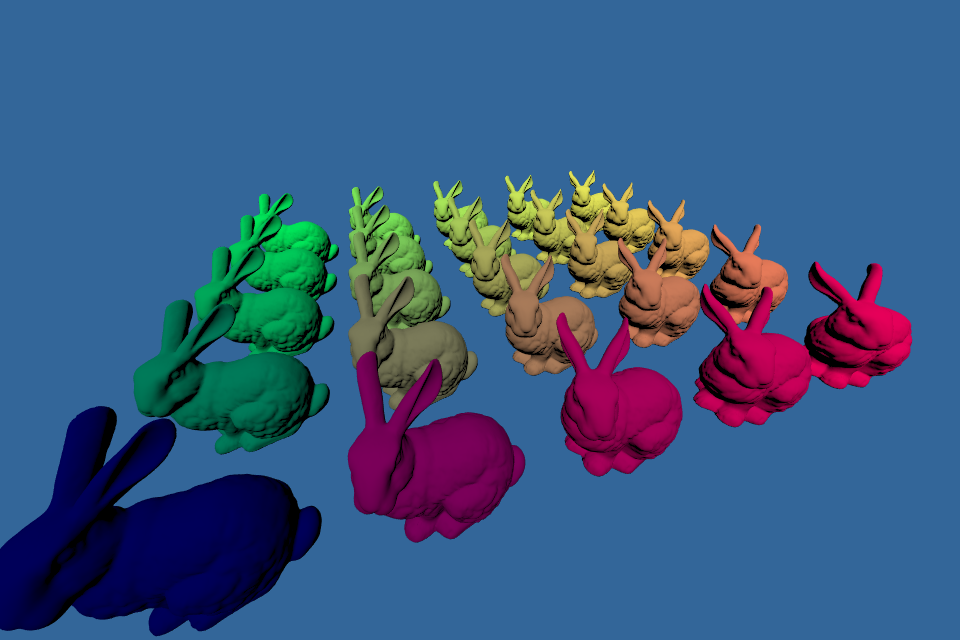
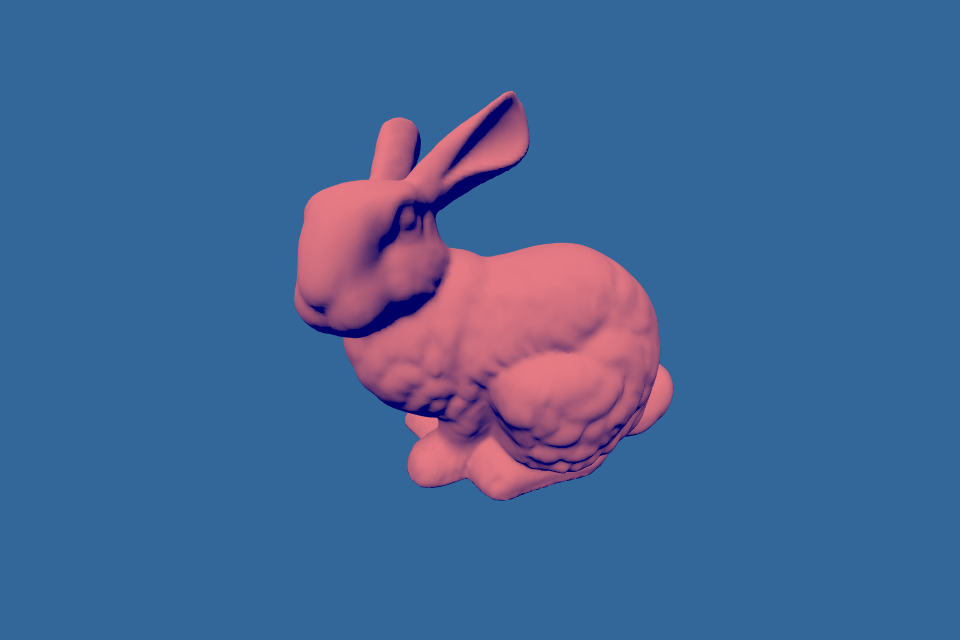
Added 16byte padding to CBuffer .h generation. Simplified BasicSample. Some memory leaking and in general memory management of materials needs to be fixed.

diff --git a/Clair/tools/MaterialTool/src/main.cpp b/Clair/tools/MaterialTool/src/main.cpp
@@ -40,24 +40,27 @@ static std::string gOutHeader {
 static bool gSilentMode {false};
 static std::ofstream gOutHeaderFile {};
 static std::string gMaterialName {};
+static ConstBufferDesc gVsCBufferDesc;
+static ConstBufferDesc gPsCBufferDesc;
 
 //int main(int , char* []) {
 int main(int argc, char* argv[]) {
 	// Get paths from command arguments (or hardcoded values for debugging)
 	if (argc < 3) {
-		return MaterialToolError::ARGS;
+		//return MaterialToolError::ARGS;
 	}
-	gInFile = argv[1];
-	gOutFile = std::string(argv[2]) + ".cmat";
-	gOutHeader = std::string(argv[2]) + ".h";
-	gMaterialName = argv[3];
-	const auto commands = CommandLineUtils::getCommands(argc - 3, argv + 3);
-	for (const char c : commands) {
-		if		(c == 's') gSilentMode = true;
-	}
-
-	if (!gSilentMode) {
-		std::cout << "Converting " << argv[1] << '\n';
+	else {
+		gInFile = argv[1];
+		gOutFile = std::string(argv[2]) + ".cmat";
+		gOutHeader = std::string(argv[2]) + ".h";
+		gMaterialName = argv[3];
+		const auto commands = CommandLineUtils::getCommands(argc - 3, argv + 3);
+		for (const char c : commands) {
+			if		(c == 's') gSilentMode = true;
+		}
+		if (!gSilentMode) {
+			std::cout << "Converting " << argv[1] << '\n';
+		}
 	}
 
 	std::ifstream file(gInFile);
@@ -79,8 +82,7 @@ int main(int argc, char* argv[]) {
 	if (result != MaterialToolError::SUCCESS) {
 		return result;
 	}
-	ConstBufferDesc vsCBufferDesc;
-	result = reflectConstBuffer(gVs, vsCBufferDesc);
+	result = reflectConstBuffer(gVs, gVsCBufferDesc);
 	if (result != MaterialToolError::SUCCESS) {
 		return result;
 	}
@@ -92,8 +94,7 @@ int main(int argc, char* argv[]) {
 		}
 		return MaterialToolError::PS;
 	}
-	ConstBufferDesc psCBufferDesc;
-	result = reflectConstBuffer(gPs, psCBufferDesc);
+	result = reflectConstBuffer(gPs, gPsCBufferDesc);
 	if (result != MaterialToolError::SUCCESS) {
 		return result;
 	}
@@ -101,16 +102,6 @@ int main(int argc, char* argv[]) {
 	// finalize and clean up
 	if (!writeToFile(gOutFile)) {
 		return MaterialToolError::WRITE;
-	}
-	if (vsCBufferDesc.isValid || psCBufferDesc.isValid) {
-		gOutHeaderFile.open(gOutHeader);
-		if (!gOutHeaderFile.is_open()) {
-			return MaterialToolError::WRITE;
-		}
-		gOutHeaderFile << "#pragma once\n\n";
-		vsCBufferDesc.writeToFile(gOutHeaderFile, gMaterialName, "Vs");
-		psCBufferDesc.writeToFile(gOutHeaderFile, gMaterialName, "Ps");
-		gOutHeaderFile.close();
 	}
 	gVs->Release();
 	gPs->Release();
@@ -143,11 +134,26 @@ HRESULT compileShader(const std::string& sourceCode, const std::string& target,
 }
 
 bool writeToFile(const std::string& filename) {
+	// header
+	if (gVsCBufferDesc.isValid || gPsCBufferDesc.isValid) {
+		gOutHeaderFile.open(gOutHeader);
+		if (!gOutHeaderFile.is_open()) {
+			return false;
+		}
+		gOutHeaderFile << "#pragma once\n";
+		gVsCBufferDesc.writeToFile(gOutHeaderFile, gMaterialName, "Vs");
+		gPsCBufferDesc.writeToFile(gOutHeaderFile, gMaterialName, "Ps");
+		gOutHeaderFile.close();
+	}
+
+	// cmat
 	FILE* outputFile;
 	if (fopen_s(&outputFile, filename.c_str(), "wb") != 0) {
 		return false;
 	}
 	Clair::Serialization::writeVertexLayoutToFile(outputFile, gVertexLayout);
+	fwrite(&gVsCBufferDesc.size, sizeof(unsigned), 1, outputFile);
+	fwrite(&gPsCBufferDesc.size, sizeof(unsigned), 1, outputFile);
 	const size_t vsSize = gVs->GetBufferSize();
 	fwrite(&vsSize, sizeof(size_t), 1, outputFile);
 	fwrite(gVs->GetBufferPointer(), sizeof(char), vsSize, outputFile);

diff --git a/Clair/tools/MaterialTool/src/ConstBufferDesc.cpp b/Clair/tools/MaterialTool/src/ConstBufferDesc.cpp
@@ -4,18 +4,56 @@ void ConstBufferDesc::addVariable(const D3D11_SHADER_VARIABLE_DESC& varDesc,
 								  const D3D11_SHADER_TYPE_DESC& typeDesc) {
 	mVarNames.push_back(varDesc.Name);
 	mTypeNames.push_back(typeDesc.Name);
+	mSizes.push_back(varDesc.Size);
 }
 
 void ConstBufferDesc::writeToFile(std::ofstream& file, const std::string& name,
 								  const std::string& postfix) {
 	if (!isValid) return;
-	file << "class Cb_" << name.c_str() << "_" << postfix.c_str() << " {\n";
+	file << "\nclass Cb_" << name.c_str() << "_" << postfix.c_str() << " {\n";
 	file << "public:\n";
-	for (size_t i {0}; i < mVarNames.size(); ++i) {
-		std::string typeName = mTypeNames[i];
-		typeName[0] = static_cast<char>(toupper(typeName[0]));
-		file << "\tClair::" << typeName.c_str() << ' '
+	const size_t numElements {mVarNames.size()};
+	unsigned currOffset {0};
+	unsigned paddingId {0};
+	//unsigned lastDifference = 0;
+	for (size_t i {0}; i < numElements; ++i) {
+		// write var to file
+		std::string hlslName {mTypeNames[i]};
+		std::string typeName {hlslName}; 
+		if (hlslName[hlslName.length() - 1] == '1') {
+			hlslName = hlslName.substr(0, hlslName.length() - 1);
+		}
+		if (hlslName == "float") typeName = "float";
+		else if (hlslName == "int") typeName = "int32_t";
+		else if (hlslName == "bool") typeName = "int32_t";
+		else {
+			typeName[0] = static_cast<char>(toupper(typeName[0]));
+			typeName = "Clair::" + typeName;
+		}
+		file << "\t" << typeName.c_str() << ' '
 			 << mVarNames[i].c_str() << ";\n";
+
+		// add necessary padding
+		currOffset += mSizes[i];
+		unsigned room {next16ByteBound(currOffset) - currOffset};
+		unsigned nextSize {0};
+		if (i + 1 < numElements) {
+			nextSize = mSizes[i + 1];
+		}
+		if (room != 0 && (nextSize == 0 || (nextSize > room))) {
+			file << "\tfloat __padding" << paddingId++ << "__["
+				 << room / 4 << "];\n";
+			currOffset = next16ByteBound(currOffset);
+		}
+		size = next16ByteBound(currOffset);
 	}
 	file << "};\n";
+}
+
+unsigned ConstBufferDesc::next16ByteBound(const unsigned bytes) {
+	unsigned nextBound = 0;
+	while (nextBound < bytes) {
+		nextBound += 16;
+	}
+	return nextBound;
 }

diff --git a/samples/BasicSample/src/BasicSample.cpp b/samples/BasicSample/src/BasicSample.cpp
@@ -25,22 +25,14 @@ bool BasicSample::initialize(const HWND hwnd) {
 	auto defaultMat = Clair::Renderer::createMaterial(defaultMatData.data());
 
 	mScene = Clair::Renderer::createScene();
-	for (int x {0}; x < 5; ++x) {
-		for (int y {0}; y < 5; ++y) {
-			const float fx = static_cast<float>(x);
-			const float fy = static_cast<float>(y);
-			const vec3 pos {fx * 2.5f, 0.0f, fy * 2.0f};
-			auto obj = mScene->createObject();
-			obj->setMesh(bunnyMesh);
-			obj->setMatrix(value_ptr(translate(pos)));
-			auto matInstance = obj->setMaterial(CLAIR_RENDER_PASS(0),
-												defaultMat);
-			auto const cb = matInstance->
-								getConstantBufferPs<Cb_materials_default_Ps>();
-			cb->DiffuseColor = Clair::Float4{fx / 5.0f, fy / 5.0f, 0.1f, 1.0f};
-		}
-	}
-	Camera::initialize({2.2f, 4.3f, -2.28f}, 0.625f, 0.320f);
+	mBunny = mScene->createObject();
+	mBunny->setMesh(bunnyMesh);
+	mBunny->setMatrix(value_ptr(translate(vec3{0.0f})));
+	auto matInstance = mBunny->setMaterial(CLAIR_RENDER_PASS(0), defaultMat);
+	mConstBuffer = matInstance->getConstantBufferPs<Cb_materials_default_Ps>();
+	mConstBuffer->DiffuseColor = Clair::Float4{0.8f, 0.2f, 0.1f, 1.0f};
+
+	Camera::initialize({-0.27f, 1.64f, -1.79f}, 0.470f, 0.045f);
 	return true;
 }
 
@@ -56,6 +48,7 @@ void BasicSample::onResize(const int width, const int height,
 }
 
 void BasicSample::update() {
+	mConstBuffer->Time = getRunningTime();
 	Camera::update(getDeltaTime());
 }
 

diff --git a/Clair/Clair/src/Material.cpp b/Clair/Clair/src/Material.cpp
@@ -11,6 +11,10 @@ using namespace Clair;
 Material::Material(const char* data) {
 	CLAIR_ASSERT(data, "Material data is null");
 	mVertexLayout = Serialization::readVertexLayoutFromBytes(data);
+	memcpy(&mCBufferData.sizeVs, data, sizeof(unsigned));
+	data += sizeof(unsigned);
+	memcpy(&mCBufferData.sizePs, data, sizeof(unsigned));
+	data += sizeof(unsigned);
 	size_t vsSize {0};
 	memcpy(&vsSize, data, sizeof(size_t));
 	data += sizeof(size_t);
@@ -23,11 +27,11 @@ Material::Material(const char* data) {
 	mVertexShader = new VertexShader{vsData, vsSize};
 	mPixelShader = new PixelShader{psData, psSize};
 	mIsValid = mVertexShader->isValid() && mPixelShader->isValid();
-	mCBufferData.sizePs = 16;
 	if (mCBufferData.sizePs > 0) {
 		mCBufferPs = new ConstantBuffer{mCBufferData.sizePs};
 		mCBufferData.dataPs = new char[mCBufferData.sizePs]{};
 	}
+	CLAIR_LOG_IF(!mIsValid, "Invalid material created");
 }
 
 Material::~Material() {

diff --git a/Clair/Clair/src/MaterialInstance.cpp b/Clair/Clair/src/MaterialInstance.cpp
@@ -5,7 +5,14 @@ using namespace Clair;
 MaterialInstance::MaterialInstance(const Material* const material) {
 	CLAIR_ASSERT(material, "Material is null");
 	mMaterial = material;
-	memcpy(&mCBufferData,
-		   material->getConstBufferData(),
-		   sizeof(MaterialConstBufferData));
+	mCBufferData.sizePs = material->getConstBufferData()->sizePs;
+	mCBufferData.dataPs = new char[mCBufferData.sizePs];
+	memcpy(mCBufferData.dataPs, material->getConstBufferData()->dataPs,
+		   material->getConstBufferData()->sizePs);
+}
+
+MaterialInstance::~MaterialInstance() {
+	//if (mCBufferData.dataVs) delete[] mCBufferData.dataVs;
+	//if (mCBufferData.dataGs) delete[] mCBufferData.dataGs;
+	//if (mCBufferData.dataPs) delete[] mCBufferData.dataPs;
 }

diff --git a/Clair/Clair/include/Clair/Debug.h b/Clair/Clair/include/Clair/Debug.h
@@ -43,6 +43,21 @@ namespace Clair {
 	};
 
 
-	#define CLAIR_LOG(msg)\
-		Clair::Log::log(msg)
+	#define CLAIR_LOG(message)\
+		Clair::Log::log(message)
+	#define CLAIR_LOG_IF(condition, message)\
+		if ((condition)) {\
+			Clair::Log::log(message);\
+		}
+	#ifdef NDEBUG
+		#define CLAIR_DEBUG_LOG(message)
+		#define CLAIR_DEBUG_LOG_IF(condition, message)
+	#else
+		#define CLAIR_DEBUG_LOG(message)\
+			Clair::Log::log(message)
+		#define CLAIR_DEBUG_LOG_IF(condition, message)\
+			if ((condition)) {\
+				Clair::Log::log(message);\
+			}
+	#endif
 }

diff --git a/Clair/tools/MaterialTool/include/ConstBufferDesc.h b/Clair/tools/MaterialTool/include/ConstBufferDesc.h
@@ -12,6 +12,12 @@ public:
 					 const std::string& postfix);
 
 	bool isValid {false};
+	unsigned size {0};
+
+private:
+	static unsigned next16ByteBound(unsigned bytes);
 	std::vector<std::string> mVarNames {};
 	std::vector<std::string> mTypeNames {};
+	std::vector<unsigned> mSizes {};
+	unsigned mSize {0};
 };

diff --git a/samples/BasicSample/include/BasicSample.h b/samples/BasicSample/include/BasicSample.h
@@ -13,6 +13,8 @@ public:
 	void render() override;
 
 private:
-	Clair::Scene* mScene {nullptr};
 	Clair::Float4x4 mPerspective {};
+	Clair::Scene* mScene {nullptr};
+	Clair::Object* mBunny {nullptr};
+	class Cb_materials_default_Ps* mConstBuffer {nullptr};
 };

diff --git a/Clair/Clair/include/Clair/MaterialInstance.h b/Clair/Clair/include/Clair/MaterialInstance.h
@@ -5,6 +5,7 @@ namespace Clair {
 	class MaterialInstance {
 	public:
 		explicit MaterialInstance(const Material* material);
+		~MaterialInstance();
 
 		template<typename T>
 		T* getConstantBufferPs();

diff --git a/samples/common/data/materials/default.h b/samples/common/data/materials/default.h
@@ -3,4 +3,6 @@
 class Cb_materials_default_Ps {
 public:
 	Clair::Float4 DiffuseColor;
+	float Time;
+	float __padding0__[3];
 };

diff --git a/README.md b/README.md
@@ -5,5 +5,5 @@ This is my specialization project as part of my education.
 ###Samples
 [BasicSample](https://github.com/TomVeltmeijer/D3D11Renderer/blob/master/samples/BasicSample) | Coming soon... | Coming soon...
 :--|:--|:--
-Draws some meshes with different colors. | Coming soon... | Coming soon...
+Draws a mesh with a simple animated material. | Coming soon... | Coming soon...
  ![](https://github.com/TomVeltmeijer/D3D11Renderer/blob/master/samples/BasicSample/screenshot.png) | ![](https://github.com/TomVeltmeijer/D3D11Renderer/blob/master/samples/BasicSample/screenshot.png) | ![](https://github.com/TomVeltmeijer/D3D11Renderer/blob/master/samples/BasicSample/screenshot.png)
